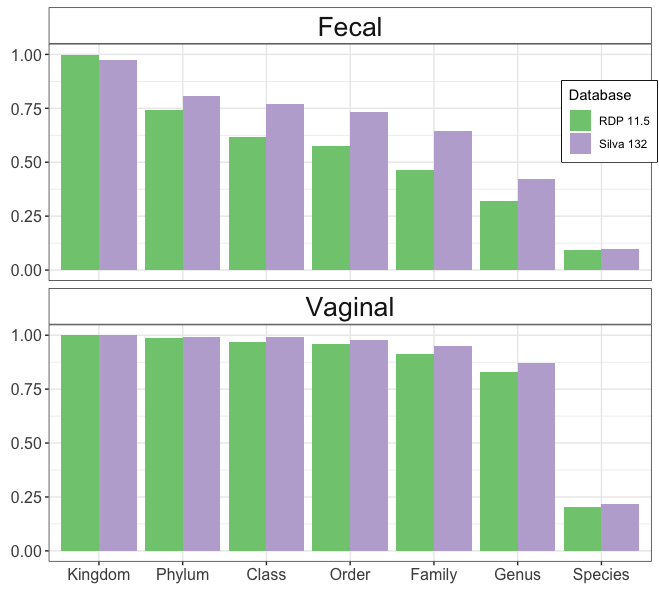
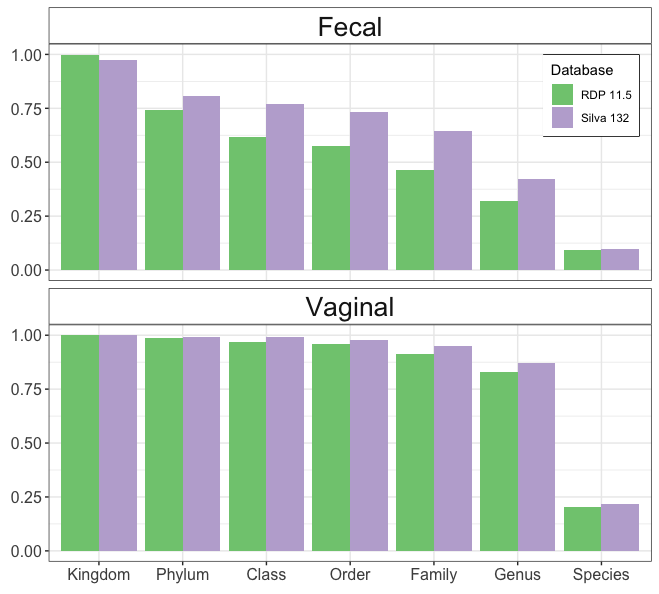
added image

Changed region(s): [[0.8194, 0.0909, 1.0, 0.2727]]

diff --git a/README.md b/README.md
@@ -4,4 +4,4 @@ All databases are formatted for compatibility with the [DADA2 workflow](https://
 
 Taxa added are documented in the same directory as the sequence files
 
-![alt text](https://github.com/itsmisterbrown/updated_16S_dbs/blob/master/RDP_v_Silva.pdf "RDP v Silva")
+![alt text](https://github.com/itsmisterbrown/updated_16S_dbs/blob/master/RDP_v_Silva.png "RDP v Silva")
